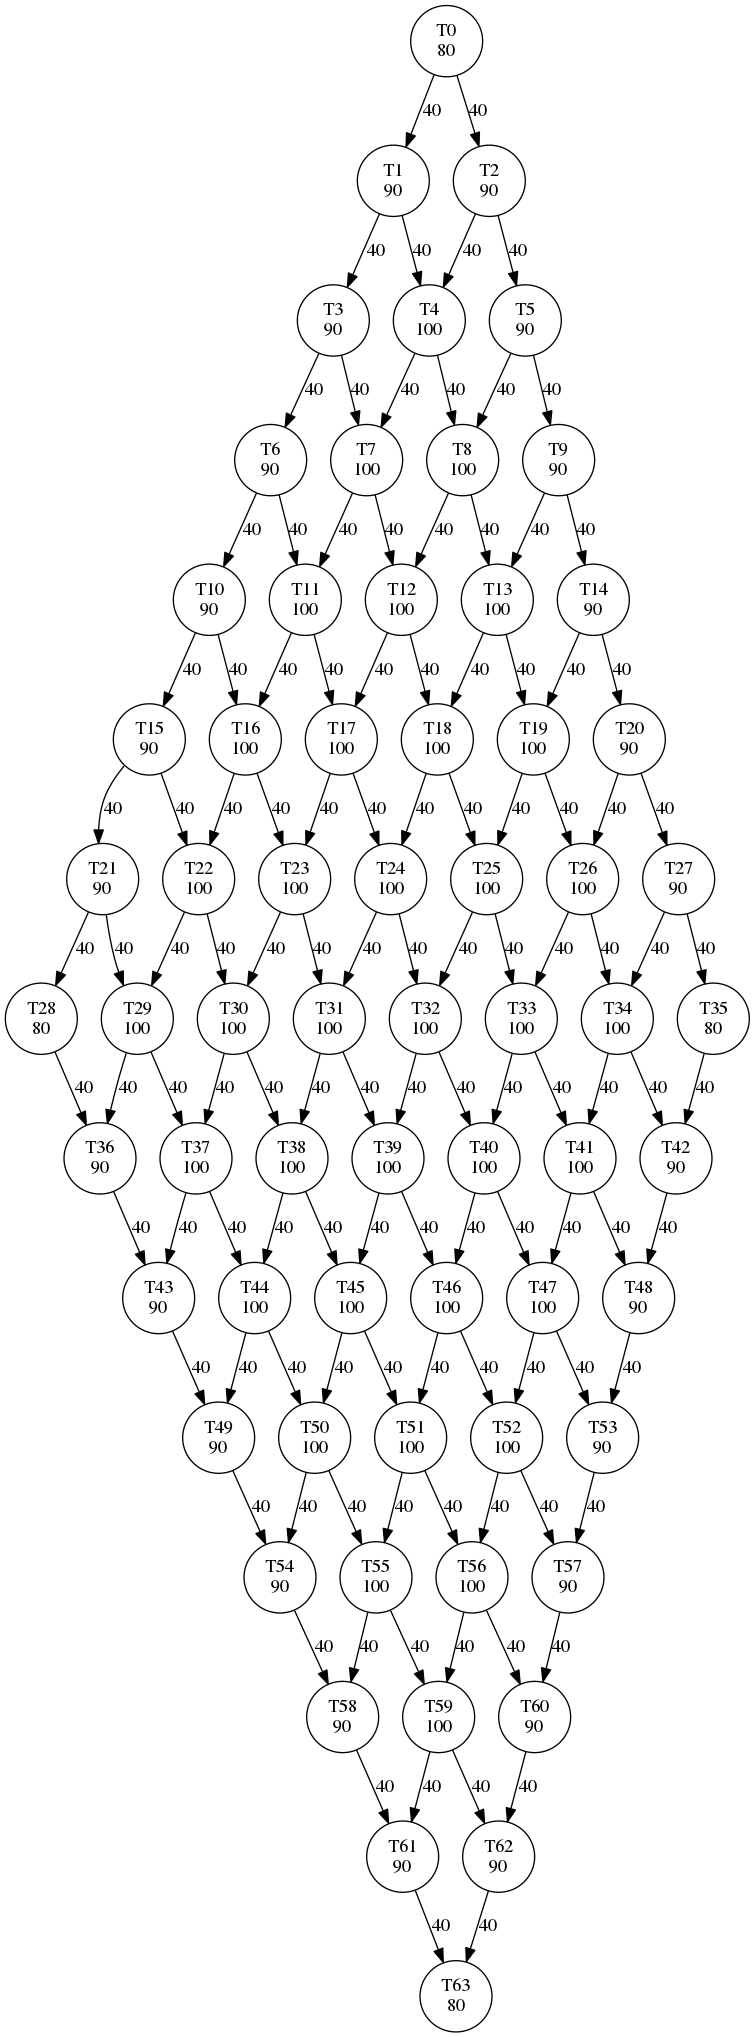
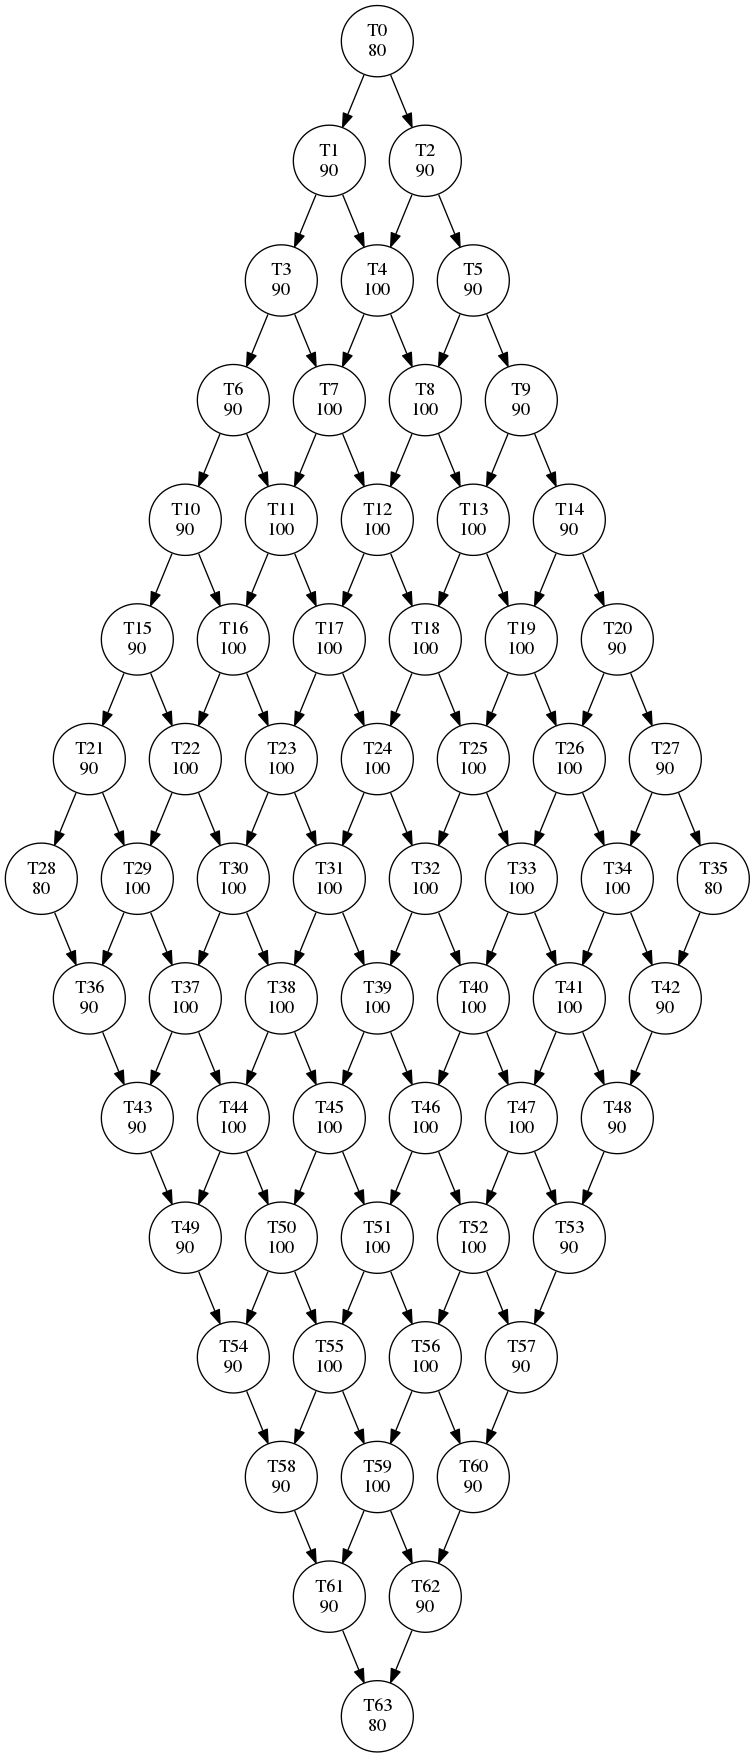
laplace graphs visualization simplified

Changed region(s): [[0.0, 0.0, 1.0, 1.0]]

diff --git a/problems/laplace/laplace_gen.py b/problems/laplace/laplace_gen.py
@@ -20,9 +20,9 @@ def makegraph():
 		layers[i] = []
 		for j in range(layer_qty-i):
 			v = vertices.pop(0)
-			layers[i].append(v)			
+			layers[i].append(v)
 
-	print(layers)
+	# print(layers)
 
 	weights = dict()
 	weights[0] = [t1_weight]
@@ -37,7 +37,7 @@ def makegraph():
 	for j in range(1,graph_size-1):
 		weights[graph_size-1].append(t1_weight+20)
 	weights[graph_size-1].append(t1_weight)
-	
+
 	for i in range(1,graph_size):
 		weights[i+graph_size-1] = weights[graph_size-1-i]
 
@@ -56,7 +56,7 @@ def makegraph():
 		for i,v in enumerate(layers[l]):
 			file.write("{} {} {}\n".format(v,layers[l+1][i],edge_weight))
 			file.write("{} {} {}\n".format(v,layers[l+1][i+1],edge_weight))
-	
+
 	for l in range(layer_qty/2,layer_qty-1):
 		file.write("{} {} {}\n".format(layers[l][0],layers[l+1][0],edge_weight))
 		file.write("{} {} {}\n".format(layers[l][-1],layers[l+1][-1],edge_weight))
@@ -76,15 +76,21 @@ def makegraph():
 	file.write("\n")
 	for l in range(layer_qty/2):
 		for i,v in enumerate(layers[l]):
-			file.write("\tv{} -> v{} [label = \"{}\"]\n".format(v,layers[l+1][i],edge_weight))
-			file.write("\tv{} -> v{} [label = \"{}\"]\n".format(v,layers[l+1][i+1],edge_weight))
-	
+			file.write("\tv{} -> v{}\n".format(v,layers[l+1][i]))
+			file.write("\tv{} -> v{}\n".format(v,layers[l+1][i+1]))
+			# file.write("\tv{} -> v{} [label = \"{}\"]\n".format(v,layers[l+1][i],edge_weight))
+			# file.write("\tv{} -> v{} [label = \"{}\"]\n".format(v,layers[l+1][i+1],edge_weight))
+
 	for l in range(layer_qty/2,layer_qty-1):
-		file.write("\tv{} -> v{} [label = \"{}\"]\n".format(layers[l][0],layers[l+1][0],edge_weight))
-		file.write("\tv{} -> v{} [label = \"{}\"]\n".format(layers[l][-1],layers[l+1][-1],edge_weight))
+		file.write("\tv{} -> v{}\n".format(layers[l][0],layers[l+1][0]))
+		file.write("\tv{} -> v{}\n".format(layers[l][-1],layers[l+1][-1]))
+		# file.write("\tv{} -> v{} [label = \"{}\"]\n".format(layers[l][0],layers[l+1][0],edge_weight))
+		# file.write("\tv{} -> v{} [label = \"{}\"]\n".format(layers[l][-1],layers[l+1][-1],edge_weight))
 		for i,v in enumerate(layers[l][1:-1]):
-			file.write("\tv{} -> v{} [label = \"{}\"]\n".format(v,layers[l+1][i],edge_weight))
-			file.write("\tv{} -> v{} [label = \"{}\"]\n".format(v,layers[l+1][i+1],edge_weight))
+			file.write("\tv{} -> v{}\n".format(v,layers[l+1][i]))
+			file.write("\tv{} -> v{}\n".format(v,layers[l+1][i+1]))
+			# file.write("\tv{} -> v{} [label = \"{}\"]\n".format(v,layers[l+1][i],edge_weight))
+			# file.write("\tv{} -> v{} [label = \"{}\"]\n".format(v,layers[l+1][i+1],edge_weight))
 	file.write("}")
 	file.close()
 
